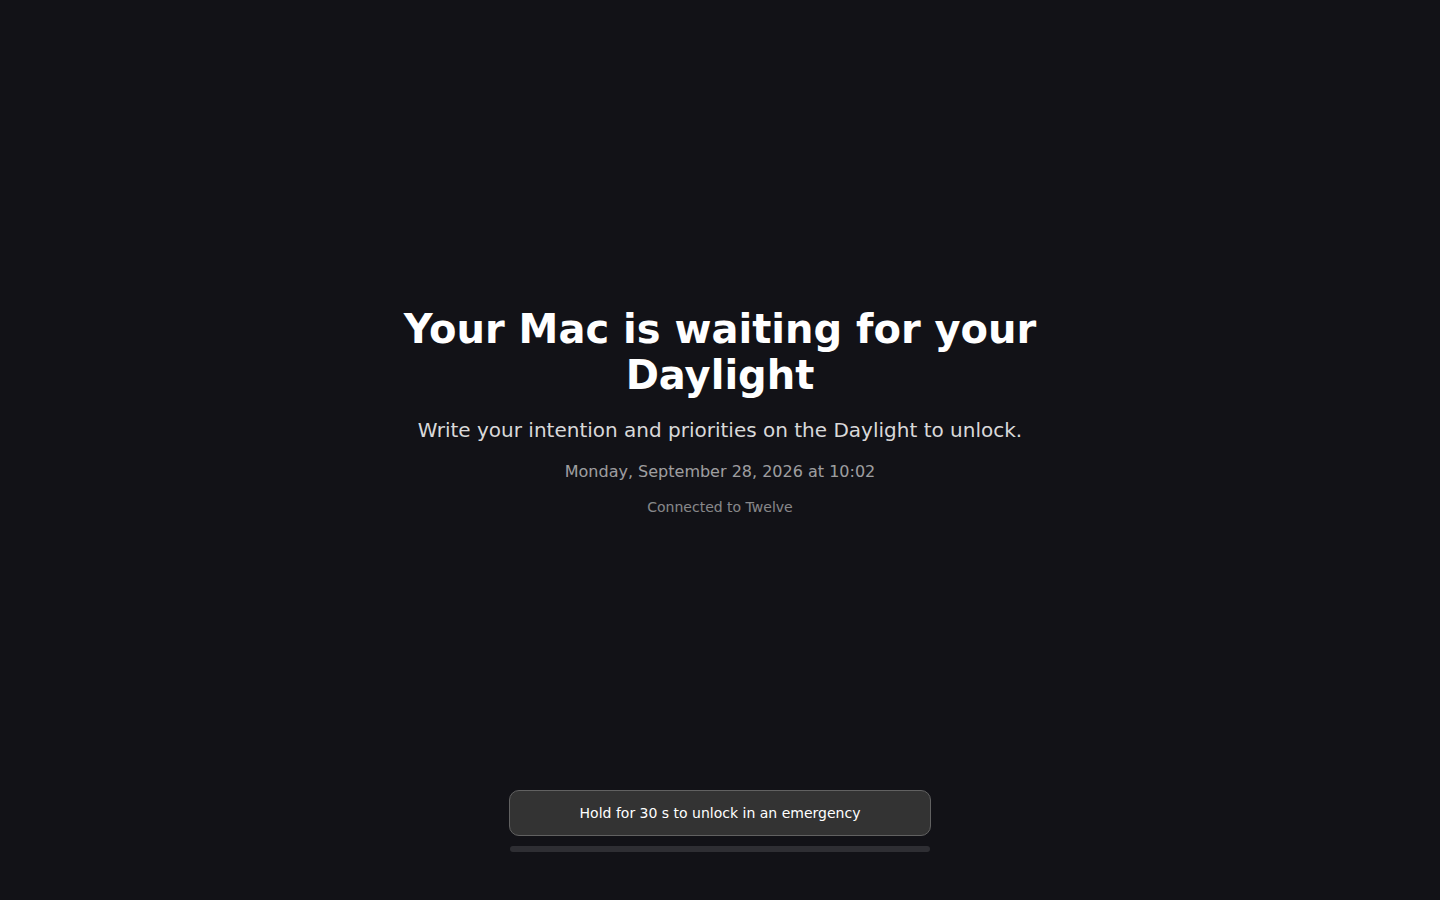
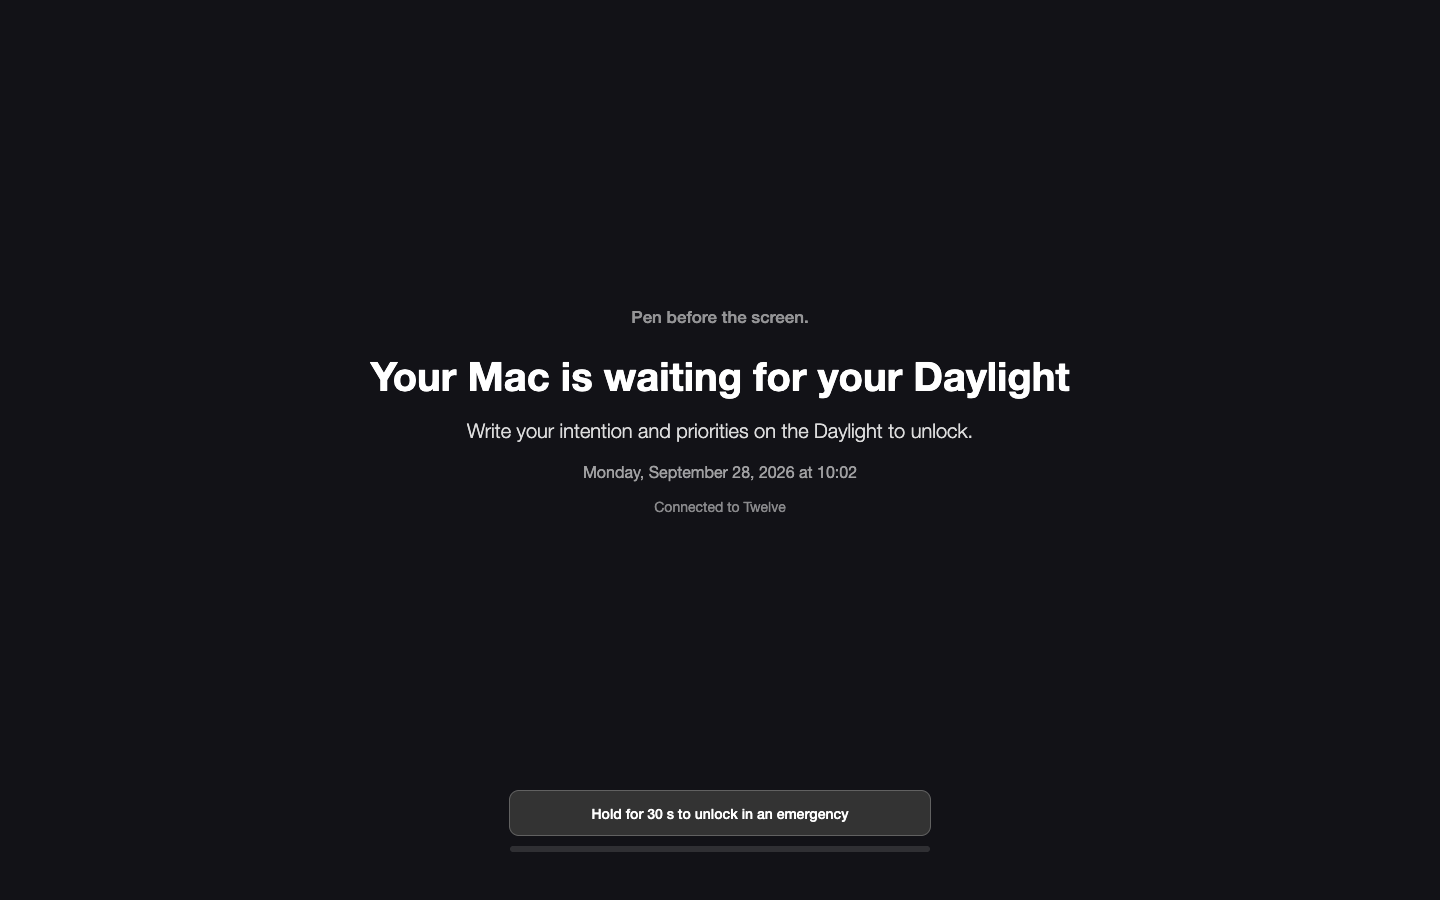
Put "Pen before the screen." on the shield and atop the README
The shield now carries a fixed tagline above its phase title, the one line
that says why the Mac is locked. The README opens with it. Shield preview
screenshots regenerated; the Swift app builds clean on macOS.

Changed region(s): [[0.25, 0.3422, 0.75, 0.5911], [0.4062, 0.8711, 0.5938, 0.9333]]

diff --git a/apps/mac/TwelveGate/Sources/TwelveGate/ShieldWindow.swift b/apps/mac/TwelveGate/Sources/TwelveGate/ShieldWindow.swift
@@ -63,8 +63,8 @@ final class ShieldWindow: NSWindow {
 
 // MARK: - ShieldContentView
 
-/// Centered title/body/clock/status/meeting lines with the emergency unlock
-/// controls anchored at the bottom.
+/// Centered tagline/title/body/clock/status/meeting lines with the emergency
+/// unlock controls anchored at the bottom.
 final class ShieldContentView: NSView {
 
     static let backgroundColor = NSColor(calibratedRed: 0.07, green: 0.07, blue: 0.09, alpha: 1)
@@ -74,6 +74,8 @@ final class ShieldContentView: NSView {
         set { emergencyView.onUnlock = newValue }
     }
 
+    /// Fixed, whatever the phase: the one line that says why the Mac is shielded.
+    private let taglineLabel = NSTextField(labelWithString: "Pen before the screen.")
     private let titleLabel = NSTextField(wrappingLabelWithString: "")
     private let bodyLabel = NSTextField(wrappingLabelWithString: "")
     private let meetingLabel = NSTextField(wrappingLabelWithString: "")
@@ -131,6 +133,7 @@ final class ShieldContentView: NSView {
     private func buildLayout() {
         autoresizingMask = [.width, .height]
 
+        styleLabel(taglineLabel, font: NSFont.systemFont(ofSize: 17, weight: .medium), white: 0.55, wraps: false)
         styleLabel(titleLabel, font: NSFont.systemFont(ofSize: 40, weight: .semibold), white: 1.0, wraps: true)
         styleLabel(bodyLabel, font: NSFont.systemFont(ofSize: 20, weight: .light), white: 0.85, wraps: true)
         styleLabel(meetingLabel, font: NSFont.systemFont(ofSize: 16, weight: .regular), white: 0.75, wraps: true)
@@ -139,10 +142,11 @@ final class ShieldContentView: NSView {
         bodyLabel.isHidden = true
         meetingLabel.isHidden = true
 
-        let stack = NSStackView(views: [titleLabel, bodyLabel, meetingLabel, clockLabel, statusLabel])
+        let stack = NSStackView(views: [taglineLabel, titleLabel, bodyLabel, meetingLabel, clockLabel, statusLabel])
         stack.orientation = .vertical
         stack.alignment = .centerX
         stack.spacing = 18
+        stack.setCustomSpacing(26, after: taglineLabel)
         stack.translatesAutoresizingMaskIntoConstraints = false
         addSubview(stack)
 

diff --git a/README.md b/README.md
@@ -1,5 +1,7 @@
 # Twelve
 
+*Pen before the screen.*
+
 **Your Daylight gatekeeps your Mac.** During work hours the Mac is shielded
 until you have written, by hand on your Daylight DC-1, what the session is for
 and what matters most. An AI reads the ink, asks at most two short questions,
